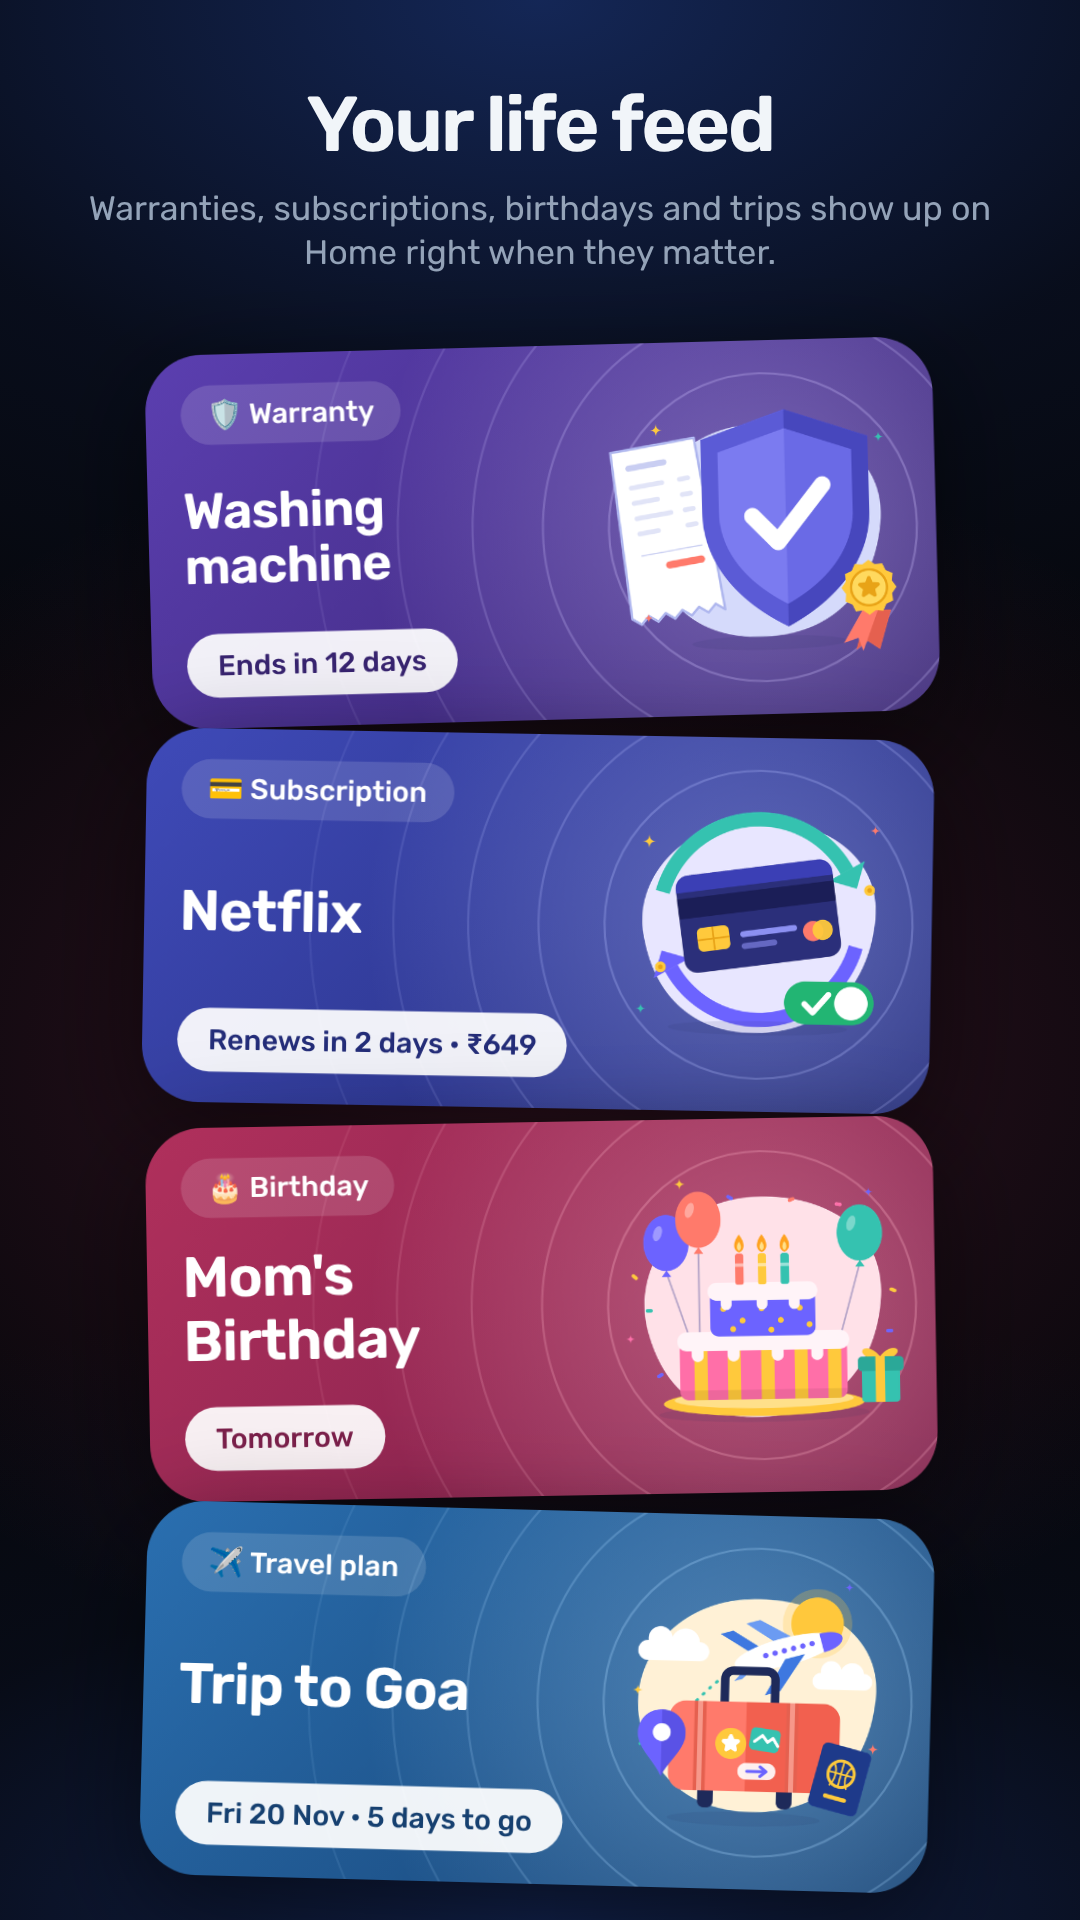
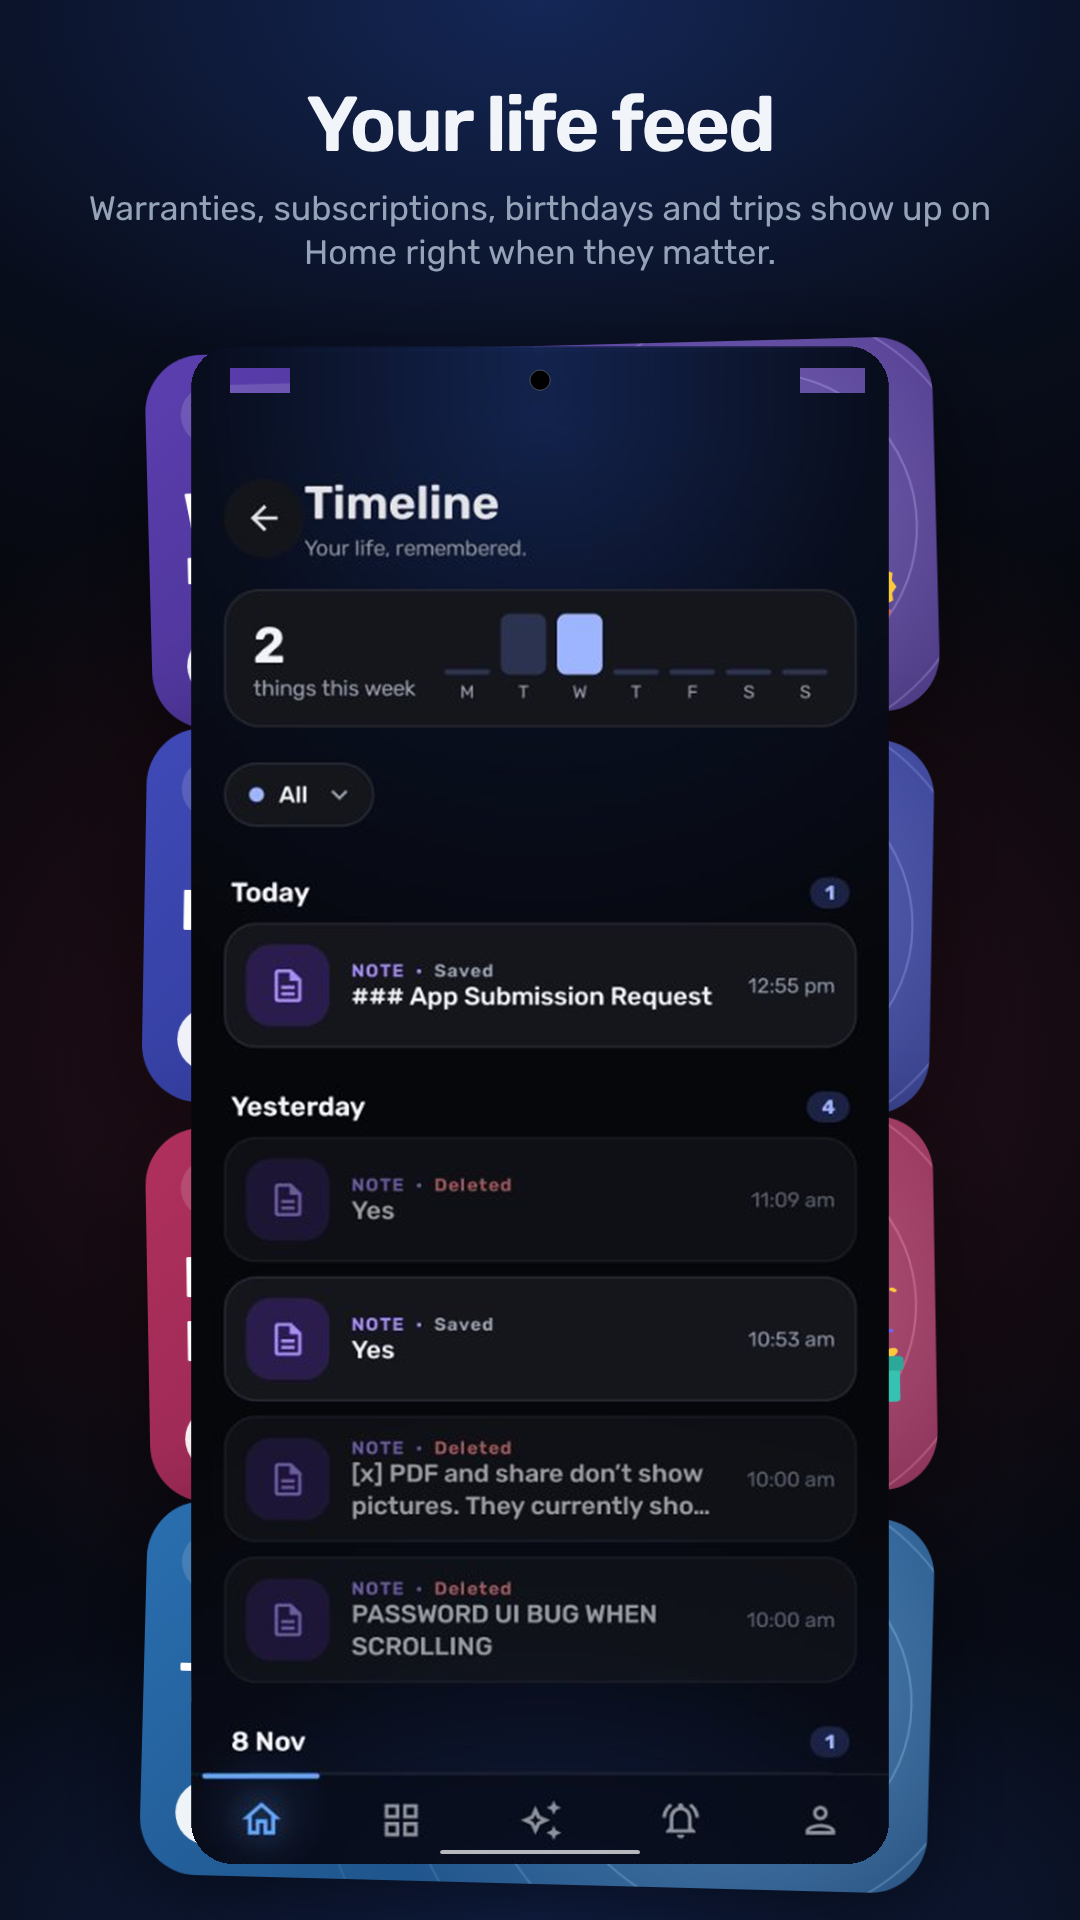
Update Life Feed mockup to Timeline (Your life, remembered)

diff --git a/README.md b/README.md
@@ -133,7 +133,7 @@ Everything you save in Recall lives exclusively inside your phone's encrypted sa
         <img src="docs/assets/mockups/03_echo.png" alt="Echo - On-device AI Assistant" />
       </td>
       <td width="25%" valign="top">
-        <img src="docs/assets/mockups/04_life_feed.png" alt="Life Feed - Chronological Activity" />
+        <img src="docs/assets/mockups/04_timeline.png" alt="Timeline - Your life, remembered" />
       </td>
     </tr>
     <tr>
